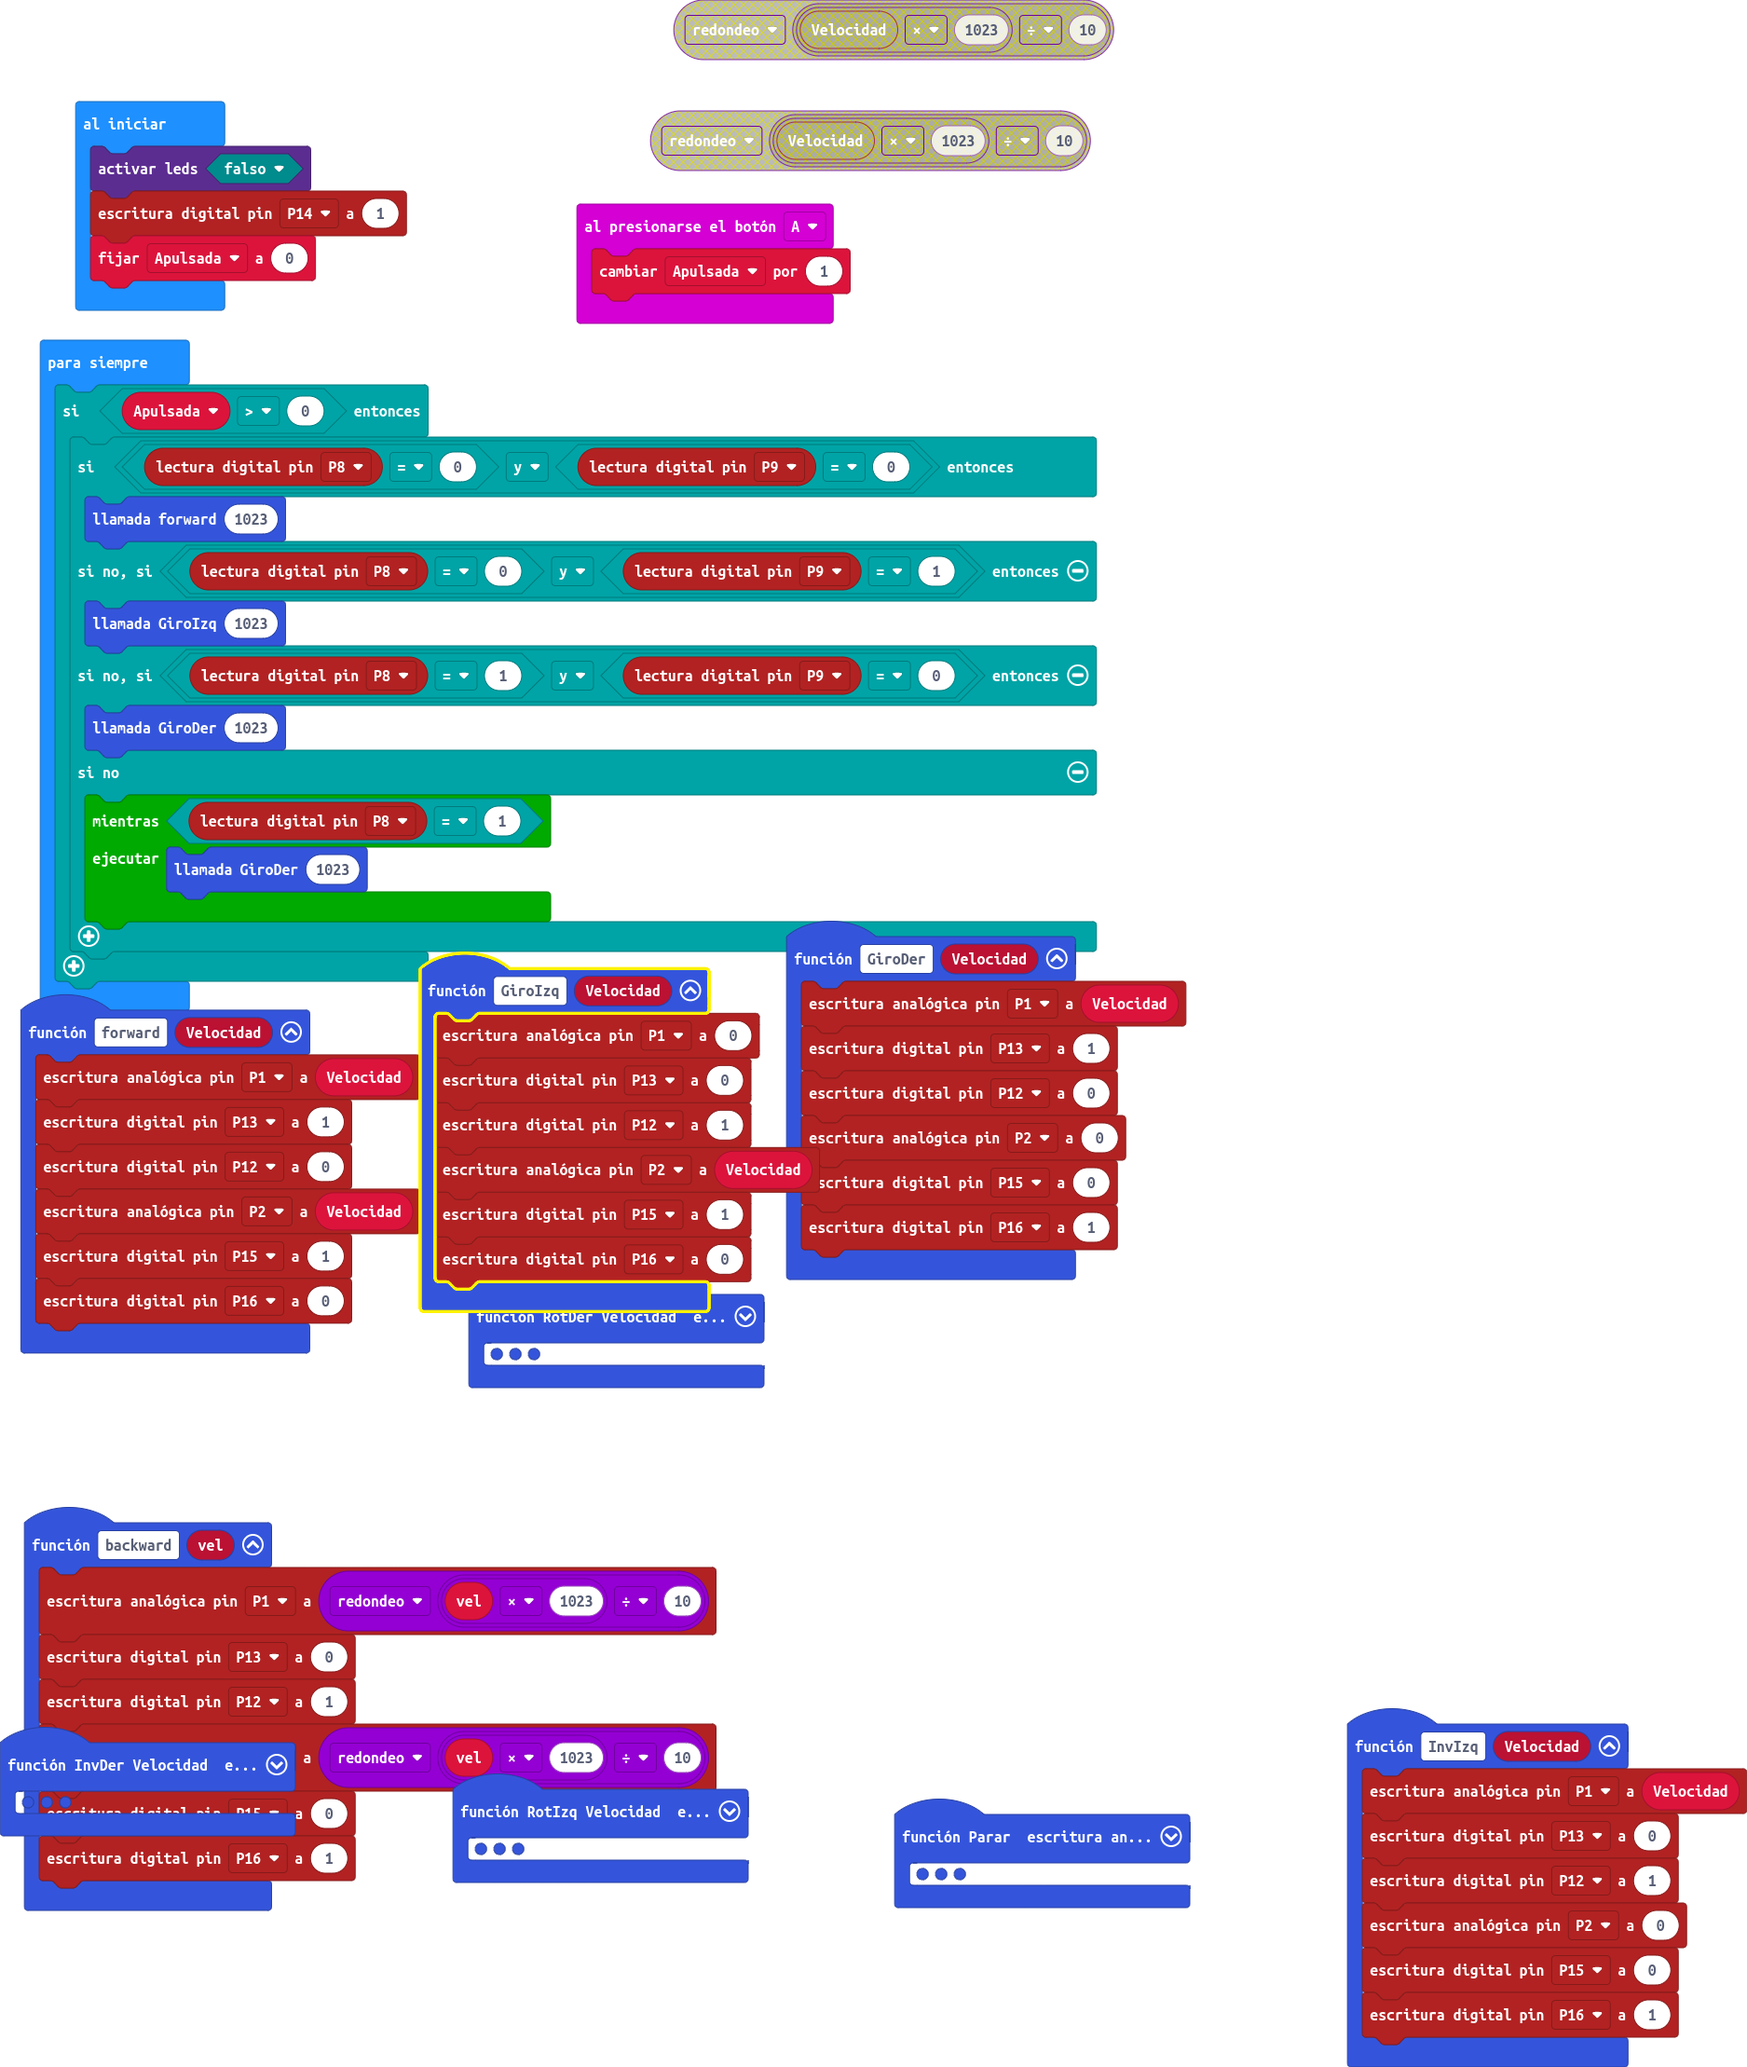
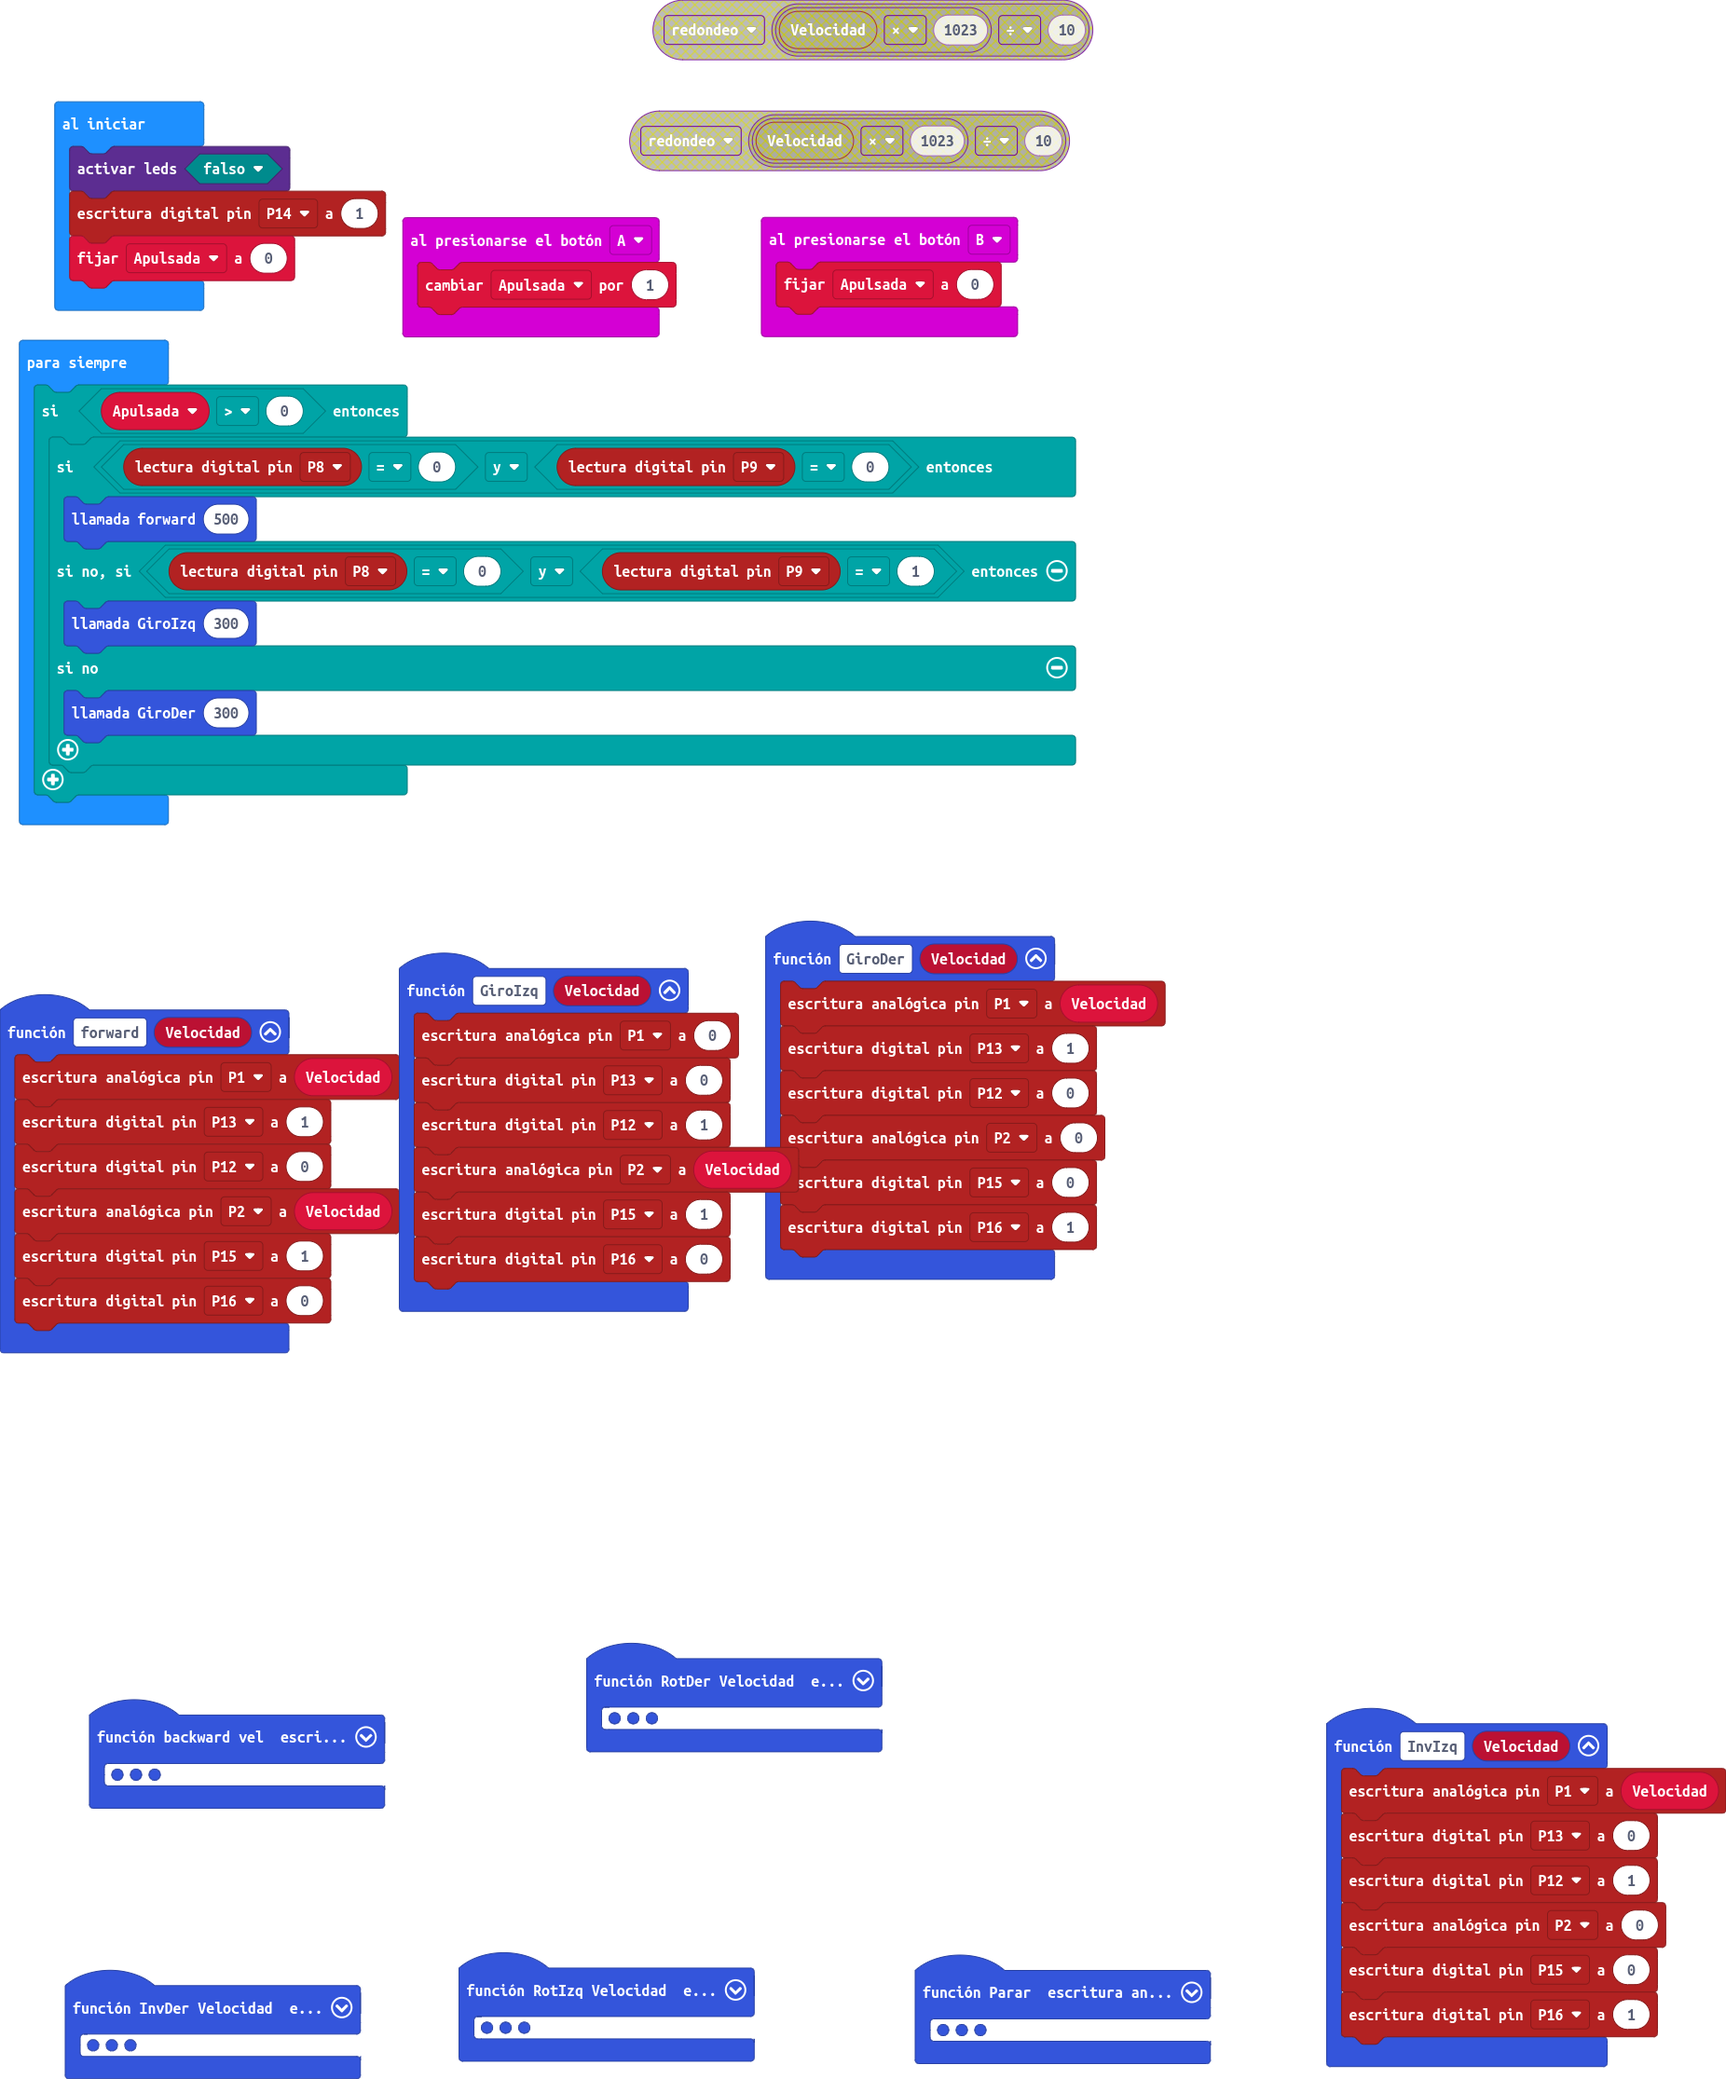
Actualizar main.blocks, main.ts

diff --git a/main.ts b/main.ts
@@ -65,6 +65,9 @@ function GiroDer (Velocidad: number) {
     pins.digitalWritePin(DigitalPin.P15, 0)
     pins.digitalWritePin(DigitalPin.P16, 1)
 }
+input.onButtonPressed(Button.B, function () {
+    Apulsada = 0
+})
 function forward (Velocidad: number) {
     pins.analogWritePin(AnalogPin.P1, Velocidad)
     pins.digitalWritePin(DigitalPin.P13, 1)
@@ -73,21 +76,18 @@ function forward (Velocidad: number) {
     pins.digitalWritePin(DigitalPin.P15, 1)
     pins.digitalWritePin(DigitalPin.P16, 0)
 }
+let Apulsada = 0
 led.enable(false)
 pins.digitalWritePin(DigitalPin.P14, 1)
-let Apulsada = 0
+Apulsada = 0
 basic.forever(function () {
     if (Apulsada > 0) {
         if (pins.digitalReadPin(DigitalPin.P8) == 0 && pins.digitalReadPin(DigitalPin.P9) == 0) {
-            forward(1023)
+            forward(500)
         } else if (pins.digitalReadPin(DigitalPin.P8) == 0 && pins.digitalReadPin(DigitalPin.P9) == 1) {
-            GiroIzq(1023)
-        } else if (pins.digitalReadPin(DigitalPin.P8) == 1 && pins.digitalReadPin(DigitalPin.P9) == 0) {
-            GiroDer(1023)
+            GiroIzq(300)
         } else {
-            while (pins.digitalReadPin(DigitalPin.P8) == 1) {
-                GiroDer(1023)
-            }
+            GiroDer(300)
         }
     }
 })
